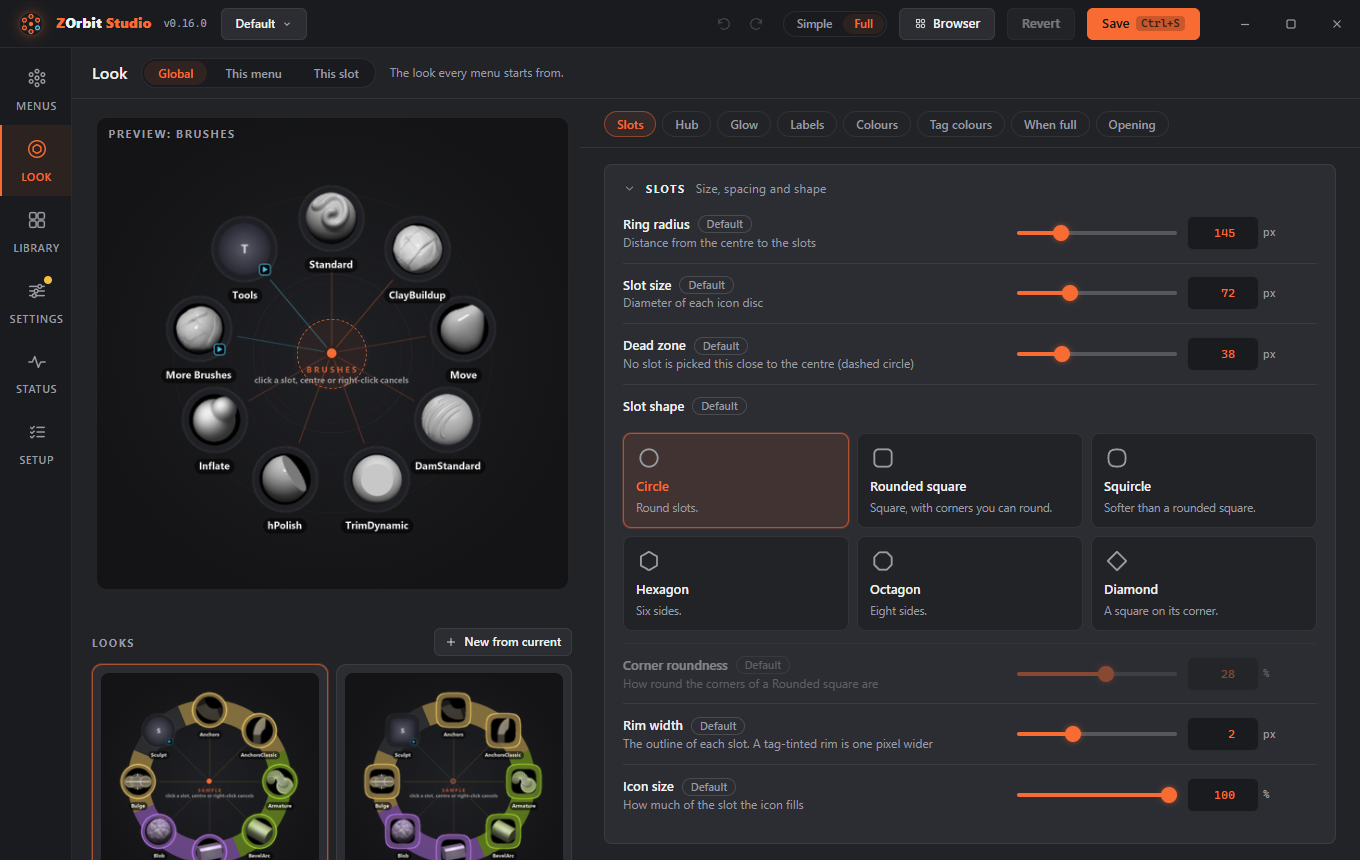
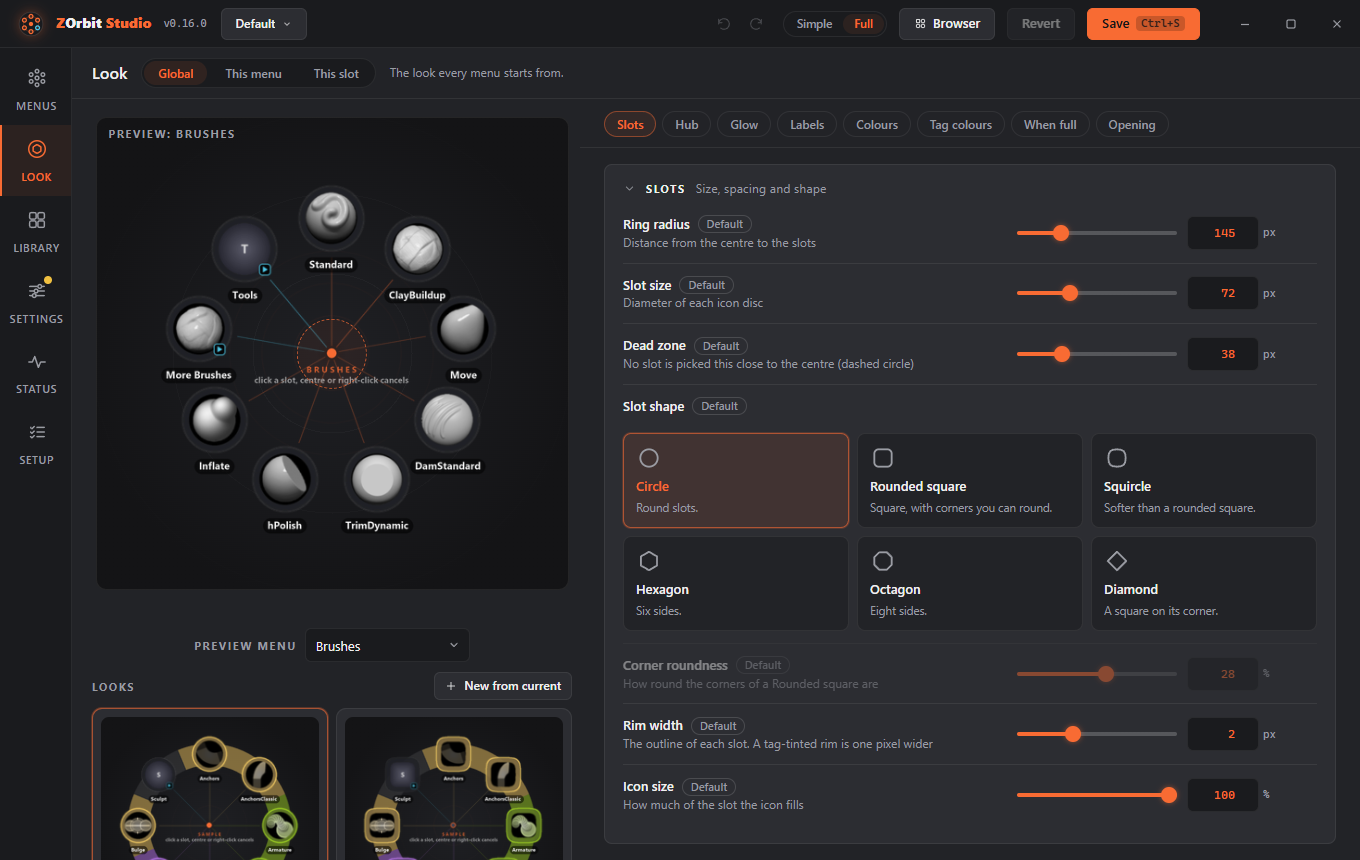
Studio: the Preview menu list sits under the ring preview (#124) (#125)
It is a compact list centred under the picture, with the gallery of looks
after it. The Look picture and the Studio page are updated.

Fixes #124

Changed region(s): [[0.0618, 0.7256, 0.4324, 1.0], [0.1544, 0.7256, 0.2471, 0.7558], [0.0618, 0.7256, 0.0926, 0.7558]]

diff --git a/zorbit/studio_ui/styles.css b/zorbit/studio_ui/styles.css
@@ -1067,7 +1067,9 @@ body.dragging .irow:hover { background: transparent; }
 /* The preview and the gallery take the spare width; the controls stop at a readable width. */
 .look-body { flex: 1; min-height: 0; display: grid; grid-template-columns: minmax(300px, 1fr) minmax(480px, 780px); }
 .look-left { display: flex; flex-direction: column; gap: 10px; padding: 18px 8px 18px 20px; overflow: auto; align-content: start; }
-.look-pick { display: flex; flex-direction: column; gap: 6px; }
+.look-pick { display: flex; align-items: center; justify-content: center; gap: 8px; }   /* under the ring preview, label and dropdown side by side */
+.look-pick[hidden] { display: none; }
+.look-pick .inp.sel { width: auto; min-width: 150px; max-width: 260px; }
 .look-stage { cursor: default; }
 .look-stage.over-slot { cursor: pointer; }
 .look-stage:focus-visible { outline: 2px solid var(--accent); outline-offset: 2px; }

diff --git a/zorbit/studio_ui/look-screen.js b/zorbit/studio_ui/look-screen.js
@@ -730,7 +730,7 @@
     function applyTarget() { return level0 === 'preset' ? { level: 'global' } : target(); }
     view.gallery = null;
     const gallery = presetsOn() && sl0 === null ? buildGallery() : null;
-    if (gallery) left.insertBefore(gallery.el, pickLabel);        // under the picture, above the preview menu and the dead-zone hint, so it is on screen when Look opens
+    if (gallery) pickLabel.after(gallery.el);                     // under the picture and its preview menu, above the dead-zone hint, so it is on screen when Look opens
 
     function applyLook(id, keep) {
       const t = applyTarget(), c = lookCtx();

diff --git a/docs/studio.md b/docs/studio.md
@@ -203,9 +203,9 @@ A menu's open animation is not part of a look. It is set in the [Opening](appear
 
 **Look** (Alt+2) is where the ring's looks are set. You can set them for every menu or for one menu, and you can save a group of settings as a named **look** to use again. The bar at the top shows what you are editing.
 
-![The Look screen at the Global level: the ring preview of the Brushes menu, the gallery of looks and a menu picker on the left, and the Slots group with the six slot shapes on the right, each setting with a Default badge](images/studio-look.png)
+![The Look screen at the Global level: the ring preview of the Brushes menu, a menu picker under it and the gallery of looks on the left, and the Slots group with the six slot shapes on the right, each setting with a Default badge](images/studio-look.png)
 
-On the left is a preview of the real ring, drawn by the same code as the app, with the dead zone as a dashed circle, and under it the [gallery of looks](#looks). The [Opening](appearance.md#opening) group plays the open animation on this preview. Hover a slot and it lights up in its own shape and shows the hover glow the app would draw. In Full mode, click a slot to [style it on its own](#styling-one-slot). The **Preview menu** list picks which menu the preview shows. It only changes the preview, not the menu you are editing on the Menus screen. **Sample ring with tags** shows a ring of library brushes in your tag colours, for the tag settings.
+On the left is a preview of the real ring, drawn by the same code as the app, with the dead zone as a dashed circle. Just under it is the **Preview menu** list, which picks which menu the preview shows. It only changes the preview, not the menu you are editing on the Menus screen. The [gallery of looks](#looks) comes after it. The [Opening](appearance.md#opening) group plays the open animation on this preview. Hover a slot and it lights up in its own shape and shows the hover glow the app would draw. In Full mode, click a slot to [style it on its own](#styling-one-slot). **Sample ring with tags** shows a ring of library brushes in your tag colours, for the tag settings.
 
 ### Levels
 

diff --git a/CHANGELOG.md b/CHANGELOG.md
@@ -19,7 +19,7 @@ All notable changes to this project are listed here. The format follows
 - ZOrbit is now built and tested on Python 3.14 instead of 3.12. The packaged app bundles the new interpreter; running from a checkout needs Python 3.14.
 - **Settings** is shorter and in a better order: **Theme** and **Behaviour** come first, then **Studio**, **Import and export**, and in Full mode **ZBrush bridge** and **Older ZBrush**. The browser hotkey is a row at the end of **Behaviour**, in both modes, and the **Browser** and **Tags** cards are gone (the **Browser** button in the top bar stays; **Manage tags...** in the Library now shows the path of the tags file). The **Theme** card no longer has an **Experimental** badge; its hint still says so.
 - The open animation is set on the **Look** screen, in a new **Opening** group, and plays on the preview there. A menu can pick its own there, in Simple mode too, and the **Menu** tab links to it. The **Ring look** and **Open animation** cards are gone from Settings.
-- On **Look**, the gallery of looks now sits right under the ring preview, above the **Preview menu** list, so it shows when the screen opens. Simple mode names its levels **All menus** and **This menu**, as Full does, and no longer has an **Applies to** label.
+- On **Look**, the **Preview menu** list is a compact list centred right under the ring preview, and the gallery of looks follows it, so both show when the screen opens (#124). Simple mode names its levels **All menus** and **This menu**, as Full does, and no longer has an **Applies to** label.
 - In Full mode the groups on the **Look** screen fold: **Slots** is open and the others show a one-line summary until you open them, and a group with settings of its own opens by itself. The **Menu** tab keeps Id, **Look**, the **Open animation** line and **Fan out when opened from another menu** under a **More** section. (#115)
 - In ZBrush 2022 to 2025, `radiald.log` now keeps what every pick did (`pick #12 result: ...`), copied from `zscript_bridge.log`, which only holds the last one. A pick with no result in 15 seconds is logged too.
 
